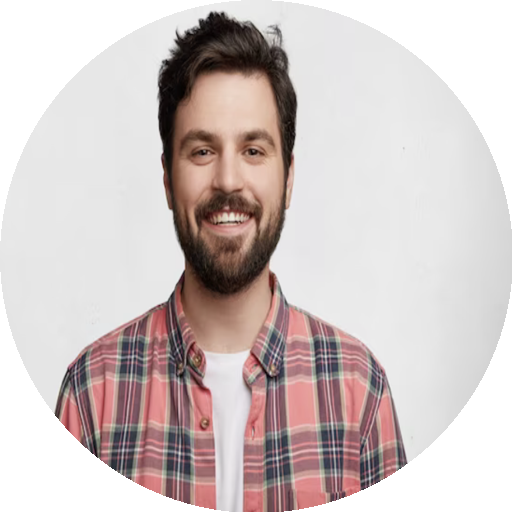
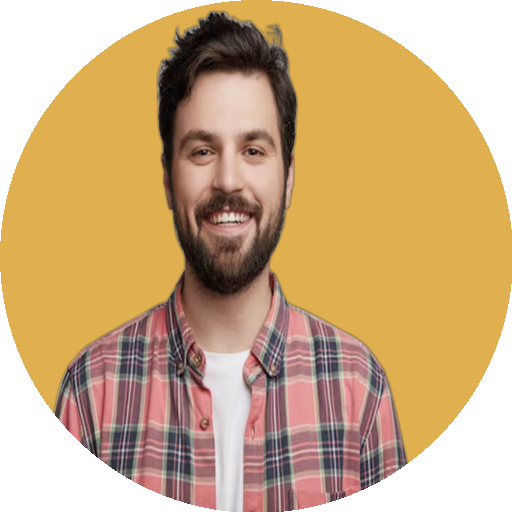
Removed Background and added happy colors

diff --git a/badges/templates/badges/upload.html b/badges/templates/badges/upload.html
@@ -1,18 +1,65 @@
-{% load static %}
 <!DOCTYPE html>
 <html>
 <head>
-    <title>Upload Badge</title>
+    <title>Badge maker</title>
+    <style>
+        body {
+            font-family: Arial, sans-serif;
+            text-align: center;  
+        }
+        h2 {
+            color: #333;
+        }
+        form {
+            margin-top: 20px;
+        }
+        input[type="file"] {
+            margin-bottom: 10px;  
+        }
+        input[type="submit"] {
+            background-color: #007bff;
+            color: #fff;
+            border: none;
+            padding: 10px 20px;
+            cursor: pointer;
+            border-radius: 5px;
+        }
+        input[type="submit"]:hover {
+            background-color: #0056b3;
+        }
+        .uploaded-image {
+            max-width: 300px; 
+            display: none;  
+            margin: 0 auto;  
+            margin-top: 20px;  
+        }
+    </style>
+    <script>
+        function previewImage(event) {
+            var input = event.target;
+            var reader = new FileReader();
+            reader.onload = function(){
+                var img = document.getElementById('uploadedImage');
+                img.src = reader.result;
+                img.style.display = 'block';  
+            }
+            reader.readAsDataURL(input.files[0]);
+        }
+    </script>
 </head>
 <body>
-    <h2>Upload a Badge</h2>
+    <h1>Playmaker's Badge Builder</h1>
+    <h3>Upload a picture</h3>
     {% if error_message %}
         <p>{{ error_message }}</p>
     {% endif %}
     <form method="post" enctype="multipart/form-data">
         {% csrf_token %}
-        {{ form.as_p }}
-        <input type="submit" value="Upload">
+        <input type="file" name="badge" accept="image/*" onchange="previewImage(event)"> 
+        <br> 
+        <input type="submit" value="Upload"> 
     </form>
+    <img id="uploadedImage" class="uploaded-image" alt="Uploaded Badge"> 
+    <h6>Made by Sourabh</h6>
 </body>
 </html>

diff --git a/badges/templates/badges/success.html b/badges/templates/badges/success.html
@@ -3,12 +3,35 @@
 <html>
 <head>
     <title>Badge Upload Success</title>
+    <style>
+        body {
+            font-family: Arial, sans-serif;
+            text-align: center;  
+        }
+        h2 {
+            color: #333;
+        }
+        .container {
+            margin: 50px auto;  
+            max-width: 600px;  
+            padding: 20px;  
+            border: 1px solid #ccc;  
+            border-radius: 10px;  
+            background-color: #f9f9f9;  
+        }
+        img {
+            max-width: 100%;  
+            margin-top: 20px;  
+        }
+    </style>
 </head>
 <body>
-    <h2>Badge Upload Successful</h2>
-    <p>Your badge has been uploaded and validated successfully.</p>
-    <p>Image dimensions before resizing: {{ width_before }} x {{ height_before }}</p>
-    <p>Image dimensions after resizing: {{ width_after }} x {{ height_after }}</p>
-    <img src="{% static 'resized_badge.png' %}" alt="resized image">
+    <div class="container">
+        <h2>Your Badge is ready!</h2>
+        <p>Your badge has been uploaded and validated successfully.</p>
+        <p>Image dimensions before resizing: {{ width_before }} x {{ height_before }}</p>
+        <p>Image dimensions after resizing: {{ width_after }} x {{ height_after }}</p>
+        <img src="{% static 'resized_badge.png' %}" alt="resized image">
+    </div>
 </body>
 </html>

diff --git a/badges/utils.py b/badges/utils.py
@@ -1,17 +1,43 @@
 from PIL import Image, ImageDraw
-import numpy as np
+import random
+import rembg
+import io
+
+HAPPY_COLORS = [
+    ['#DF7FD7', '#DF7FD7', '#591854'],
+    ['#E3CAC8', '#DF8A82', '#5E3A37'],
+    ['#E6845E', '#E05118', '#61230B'],
+    ['#E0B050', '#E6CB97', '#614C23'],
+    ['#9878AD', '#492661', '#C59BE0'],
+    ['#787BAD', '#141961', '#9B9FE0'],
+    ['#78A2AD', '#104F61', '#9BD1E0'],
+    ['#78AD8A', '#0A6129', '#9BE0B3'],
+    ['#AD8621', '#6B5621', '#E0AD2B'],
+]
+
+def select_random_color():
+    return random.choice(HAPPY_COLORS)
 
 def make_badge(image):
     '''
-    This fuction resizes the uploaded image into size 512 X 512
-    crops the image and adds circular mask and
-    adds nontransparent pixels inside the circle and finally stores the output image to disk
+    This function resizes the uploaded image into size 512 X 512,
+    fills the background inside the circle with a random color,
+    crops the image, adds a circular mask,
+    adds non-transparent pixels inside the circle,
+    and finally stores the output image to disk.
     '''
     img = image.resize((512, 512))
 
-    width, height = img.size
+    selected_colors = select_random_color()
+    background_color = selected_colors[0]
+
+    background = Image.new('RGB', img.size, color=background_color)
+
+    background.paste(img, (0, 0), img)
+
+    width, height = background.size
     x = (width - height) // 2
-    img_cropped = img.crop((x, 0, x + height, height))
+    img_cropped = background.crop((x, 0, x + height, height))
 
     mask = Image.new('L', img_cropped.size, 0)
     mask_draw = ImageDraw.Draw(mask)
@@ -24,3 +50,9 @@ def make_badge(image):
     img_cropped.save(output_path, format="PNG")
 
     return img_cropped, True
+
+
+def remove_background_with_rembg(image_bytes):
+    output_image_bytes = rembg.remove(image_bytes)
+    output_image = Image.open(io.BytesIO(output_image_bytes))    
+    return output_image

diff --git a/badge_project/settings.py b/badge_project/settings.py
@@ -13,23 +13,18 @@ https://docs.djangoproject.com/en/4.2/ref/settings/
 from pathlib import Path
 import os 
 
-# Build paths inside the project like this: BASE_DIR / 'subdir'.
 BASE_DIR = Path(__file__).resolve().parent.parent
 
 
-# Quick-start development settings - unsuitable for production
-# See https://docs.djangoproject.com/en/4.2/howto/deployment/checklist/
 
-# SECURITY WARNING: keep the secret key used in production secret!
+
 SECRET_KEY = 'django-insecure-b*0i-*=(*wf^6%0y8b(9jl-#)by&3-fq((w57j)$c5-4tenb(s'
 
-# SECURITY WARNING: don't run with debug turned on in production!
 DEBUG = True
 
 ALLOWED_HOSTS = []
 
 
-# Application definition
 
 INSTALLED_APPS = [
     'badges',
@@ -72,8 +67,7 @@ TEMPLATES = [
 WSGI_APPLICATION = 'badge_project.wsgi.application'
 
 
-# Database
-# https://docs.djangoproject.com/en/4.2/ref/settings/#databases
+
 
 DATABASES = {
     'default': {
@@ -83,8 +77,6 @@ DATABASES = {
 }
 
 
-# Password validation
-# https://docs.djangoproject.com/en/4.2/ref/settings/#auth-password-validators
 
 AUTH_PASSWORD_VALIDATORS = [
     {
@@ -102,8 +94,6 @@ AUTH_PASSWORD_VALIDATORS = [
 ]
 
 
-# Internationalization
-# https://docs.djangoproject.com/en/4.2/topics/i18n/
 
 LANGUAGE_CODE = 'en-us'
 
@@ -114,20 +104,14 @@ USE_I18N = True
 USE_TZ = True
 
 
-# Static files (CSS, JavaScript, Images)
-# https://docs.djangoproject.com/en/4.2/howto/static-files/
 
 STATIC_URL = 'static/'
 
-# Default primary key field type
-# https://docs.djangoproject.com/en/4.2/ref/settings/#default-auto-field
 
 DEFAULT_AUTO_FIELD = 'django.db.models.BigAutoField'
 SECURE_SSL_REDIRECT = False
-# Static files (CSS, JavaScript, Images)
 STATIC_URL = '/static/'
 
-# Add the path to the global static directory
 STATICFILES_DIRS = [BASE_DIR / 'static',]
 
 

diff --git a/badges/views.py b/badges/views.py
@@ -1,7 +1,8 @@
 from django.shortcuts import render
 from .forms import BadgeUploadForm
-from .utils import make_badge
+from .utils import make_badge, remove_background_with_rembg
 from PIL import Image
+import io
 
 def upload_badge(request):
     if request.method == 'POST':
@@ -9,15 +10,21 @@ def upload_badge(request):
         if form.is_valid():
             badge = request.FILES['badge']
             uploaded_image = Image.open(badge)
-            width_before, height_before = uploaded_image.size   
-            resized_img, validation_result = make_badge(uploaded_image)
+            
+            with io.BytesIO() as output_bytes:
+                uploaded_image.save(output_bytes, format='PNG')
+                image_bytes = output_bytes.getvalue()
+            
+            processed_image = remove_background_with_rembg(image_bytes)
+            
+            resized_img, validation_result = make_badge(processed_image)
 
             if validation_result:
                 width_after, height_after = resized_img.size
                 
                 return render(request, 'badges/success.html', {
-                    'width_before': width_before,
-                    'height_before': height_before,
+                    'width_before': uploaded_image.width,
+                    'height_before': uploaded_image.height,
                     'width_after': width_after,
                     'height_after': height_after
                 })

diff --git a/badge_project/urls.py b/badge_project/urls.py
@@ -1,9 +1,9 @@
 from django.contrib import admin
 from django.urls import path, include
-from badges.views import upload_badge  # Import the view function
+from badges.views import upload_badge  
 
 urlpatterns = [
     path('admin/', admin.site.urls),
-    path('', upload_badge, name='home'),  # Add URL pattern for the root path
-    path('upload/', upload_badge, name='upload_badge'),  # URL pattern for upload
+    path('', upload_badge, name='home'), 
+    path('upload/', upload_badge, name='upload_badge'),   
 ]
